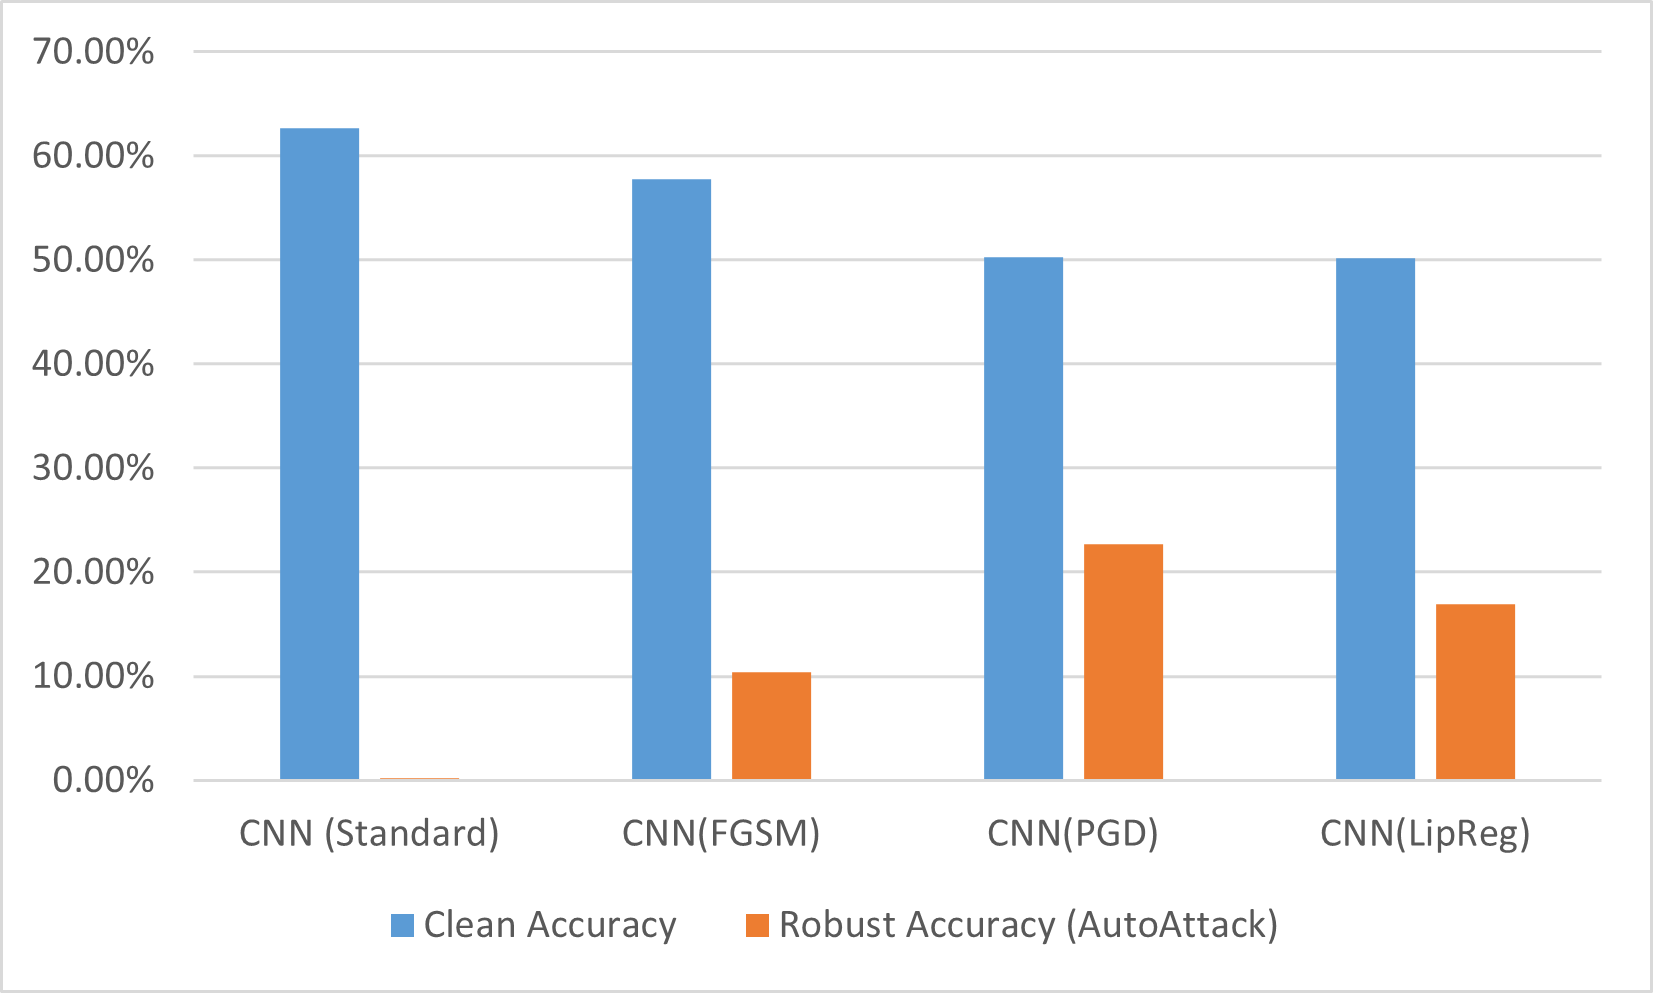
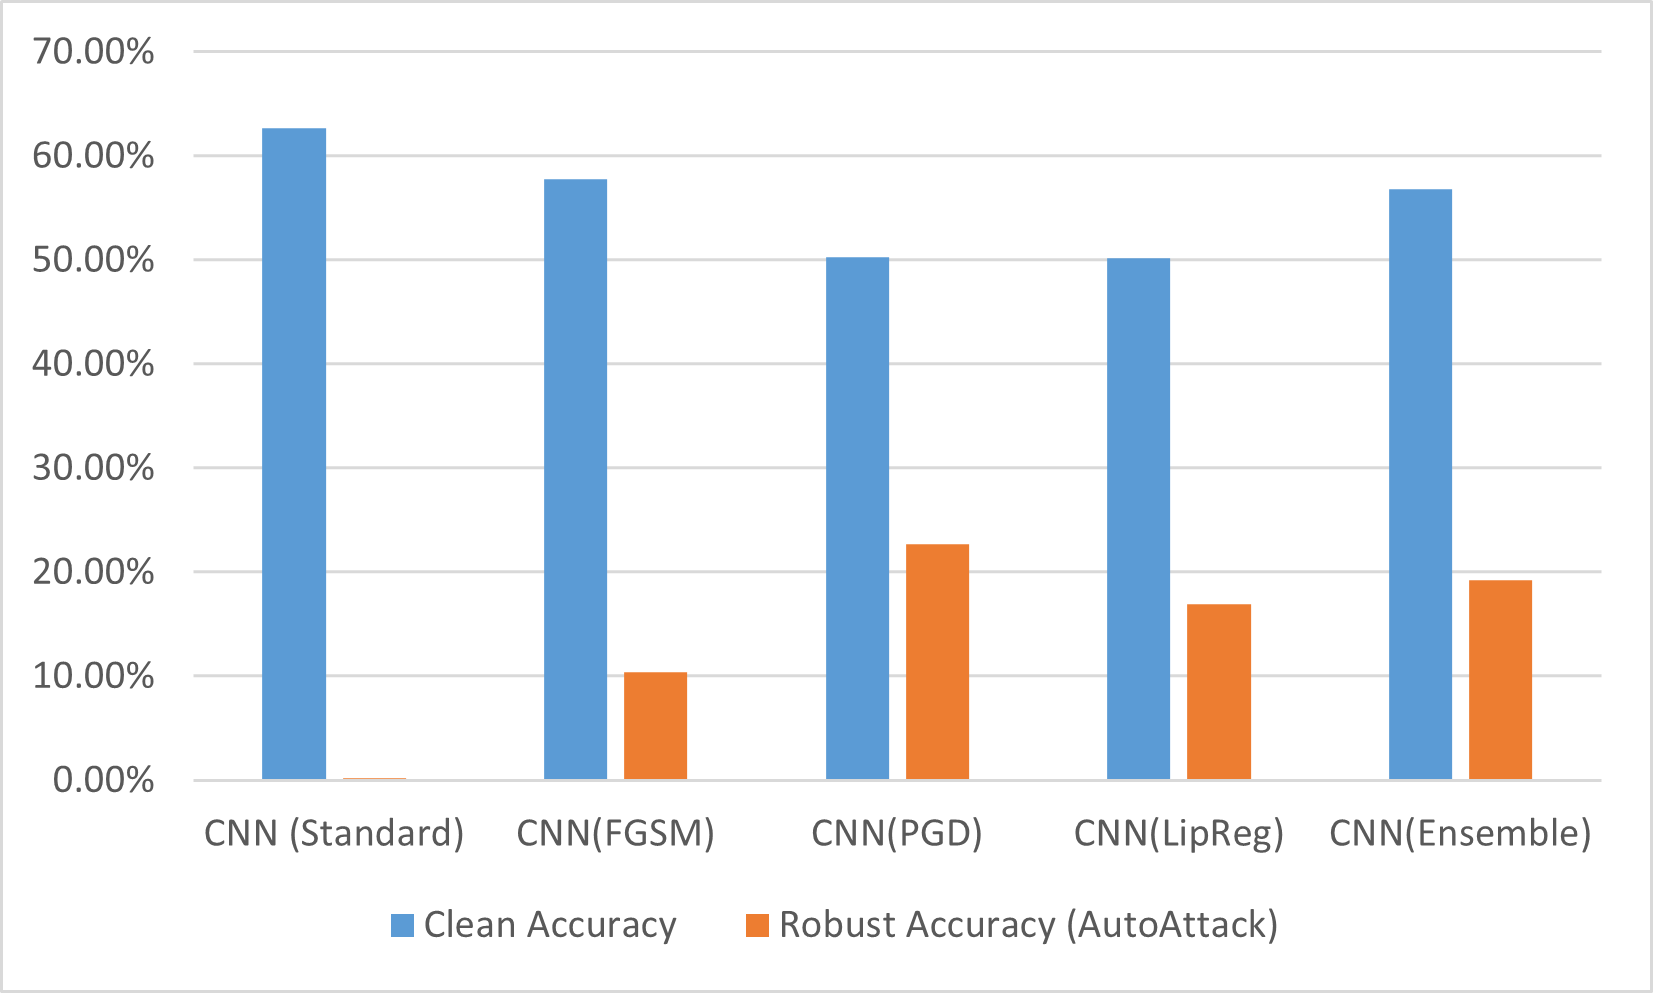
Add files via upload

Changed region(s): [[0.1234, 0.1561, 0.7713, 0.8741], [0.8022, 0.1873, 0.9564, 0.8741], [0.1543, 0.1249, 0.2468, 0.7805]]

diff --git a/ensemble.py b/ensemble.py
@@ -13,27 +13,33 @@ from torch.utils.data import DataLoader
 import torch.optim as optim
 import torch.nn.functional as F
 from utils import *
+from nn1 import *
 
-# class MyEnsemble(nn.Module):
-#     def __init__(self, modelA, modelB, modelC):
-#         super(MyEnsemble, self).__init__()
-#         self.modelA = modelA
-#         self.modelB = modelB
-#         self.modelC = modelC
-#         self.classifier = nn.Linear(30,10)
-#     def forward(self, x):
-#         x1 = self.modelA(x)
-#         x1 = x1.view(x1.size(0), -1)
-#         x2 = self.modelB(x)
-#         x2 = x2.view(x2.size(0), -1)
-#         x = torch.cat((x1, x2), dim=1)
-#         x = self.classifier(F.relu(x))
-#         return x
-    
-    
-class MyEnsemble(nn.Module):
+class MyEnsembleStacking(nn.Module):
     def __init__(self, modelA, modelB, modelC):
-        super(MyEnsemble, self).__init__()
+        super(MyEnsembleStacking, self).__init__()
+        self.modelA = modelA
+        for param in modelA.parameters():
+            param.requires_grad = False
+        self.modelB = modelB
+        for param in modelB.parameters():
+            param.requires_grad = False
+        self.modelC = modelC
+        for param in modelC.parameters():
+            param.requires_grad = False
+        self.classifier = nn.Linear(30,10)
+    def forward(self, x):
+        x1 = self.modelA(x)
+        x2 = self.modelB(x)
+        x3 = self.modelC(x)
+        x = torch.cat((x1, x2, x3), dim=1)
+        x = self.classifier(F.relu(x))
+        return x
+    
+    
+class MyEnsembleAverage(nn.Module):
+    def __init__(self, modelA, modelB, modelC):
+        super(MyEnsembleAverage, self).__init__()
         self.modelA = modelA
         self.modelB = modelB
         self.modelC = modelC
@@ -46,15 +52,49 @@ class MyEnsemble(nn.Module):
         x3 = x3.view(x3.size(0), -1)
         return (x1+x2+x3)/3
     
+
+
+
+BATCH_SIZE = 100
+
+df_train = datasets.CIFAR10(root=r'/tmp/data',download=True, train=True, 
+                            transform = transforms.ToTensor())
+df_test = datasets.CIFAR10(root=r'/tmp/data',download=True, train=False, 
+                            transform = transforms.ToTensor())
+loader_train = DataLoader(df_train, batch_size = BATCH_SIZE, shuffle=True)
+loader_test = DataLoader(df_test, batch_size = BATCH_SIZE, shuffle=True)
+    
+device = torch.device("cpu")
+
 nn1_fgsm = torch.load('cifar10_nn1_fgsm_2.pkl')
 nn1_pgd = torch.load('cifar10_nn1_pgd.pkl')
 nn1_lireg = torch.load('cifar10_lip_reg.pkl')
-ens1 = MyEnsemble(nn1_fgsm,nn1_pgd,nn1_lireg)
+# ens1 = MyEnsembleAverage(nn1_fgsm,nn1_pgd,nn1_lireg)
+for model in (nn1_fgsm,nn1_pgd,nn1_lireg):
+    for param in model.parameters():
+        param.requires_grad = False
 
-eval_standard(loader_test,ens1)
+ens2 = MyEnsembleStacking(nn1_fgsm,nn1_pgd,nn1_lireg)
+for param in ens2.parameters():
+    print(param)
+ens_arr = train_standard(loader_train=loader_train, loader_test=loader_test,
+                                  model=ens2, n_epoch=5, opt=optim.SGD, lr=0.1)
+
+ens2.parameters()
+
+
+
+optim.SGD(nn1_pgd.parameters(), lr=0.1)
+
+eval_standard(loader_test,ens2)
 
 from robustbench.eval import benchmark
 clean_acc_ens1, robust_acc_ens1 = benchmark(ens1,
+                                  dataset='cifar10',
+                                  threat_model='Linf',
+                                  eps = 8/255
+                                  )
+clean_acc_ens2, robust_acc_ens2 = benchmark(ens2,
                                   dataset='cifar10',
                                   threat_model='Linf',
                                   eps = 8/255
